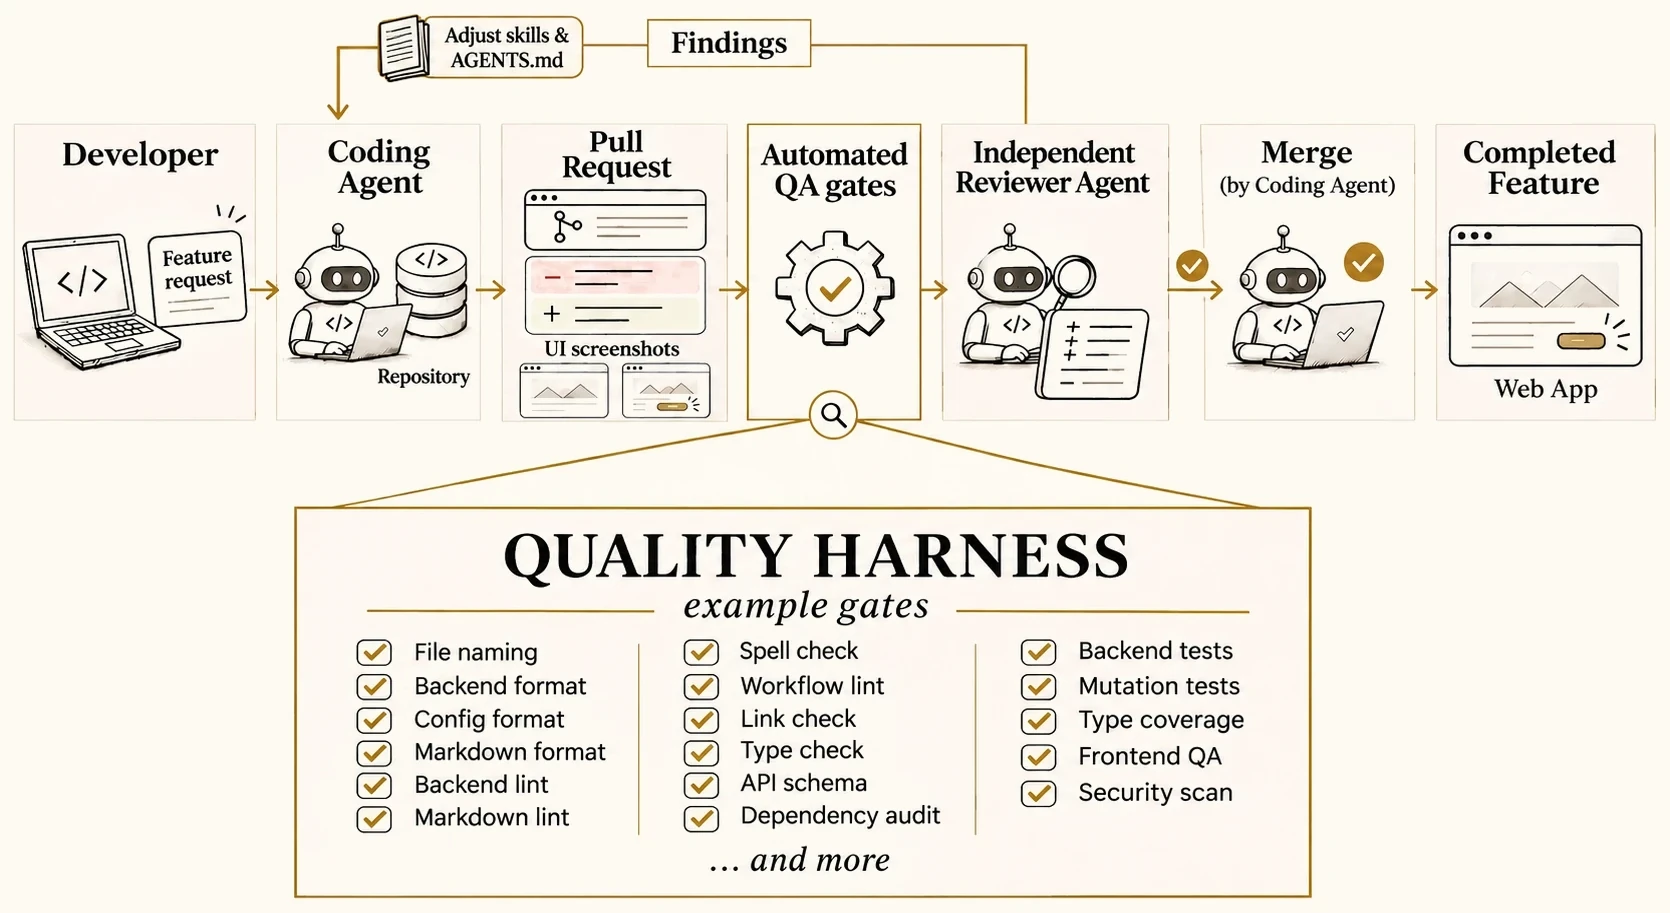
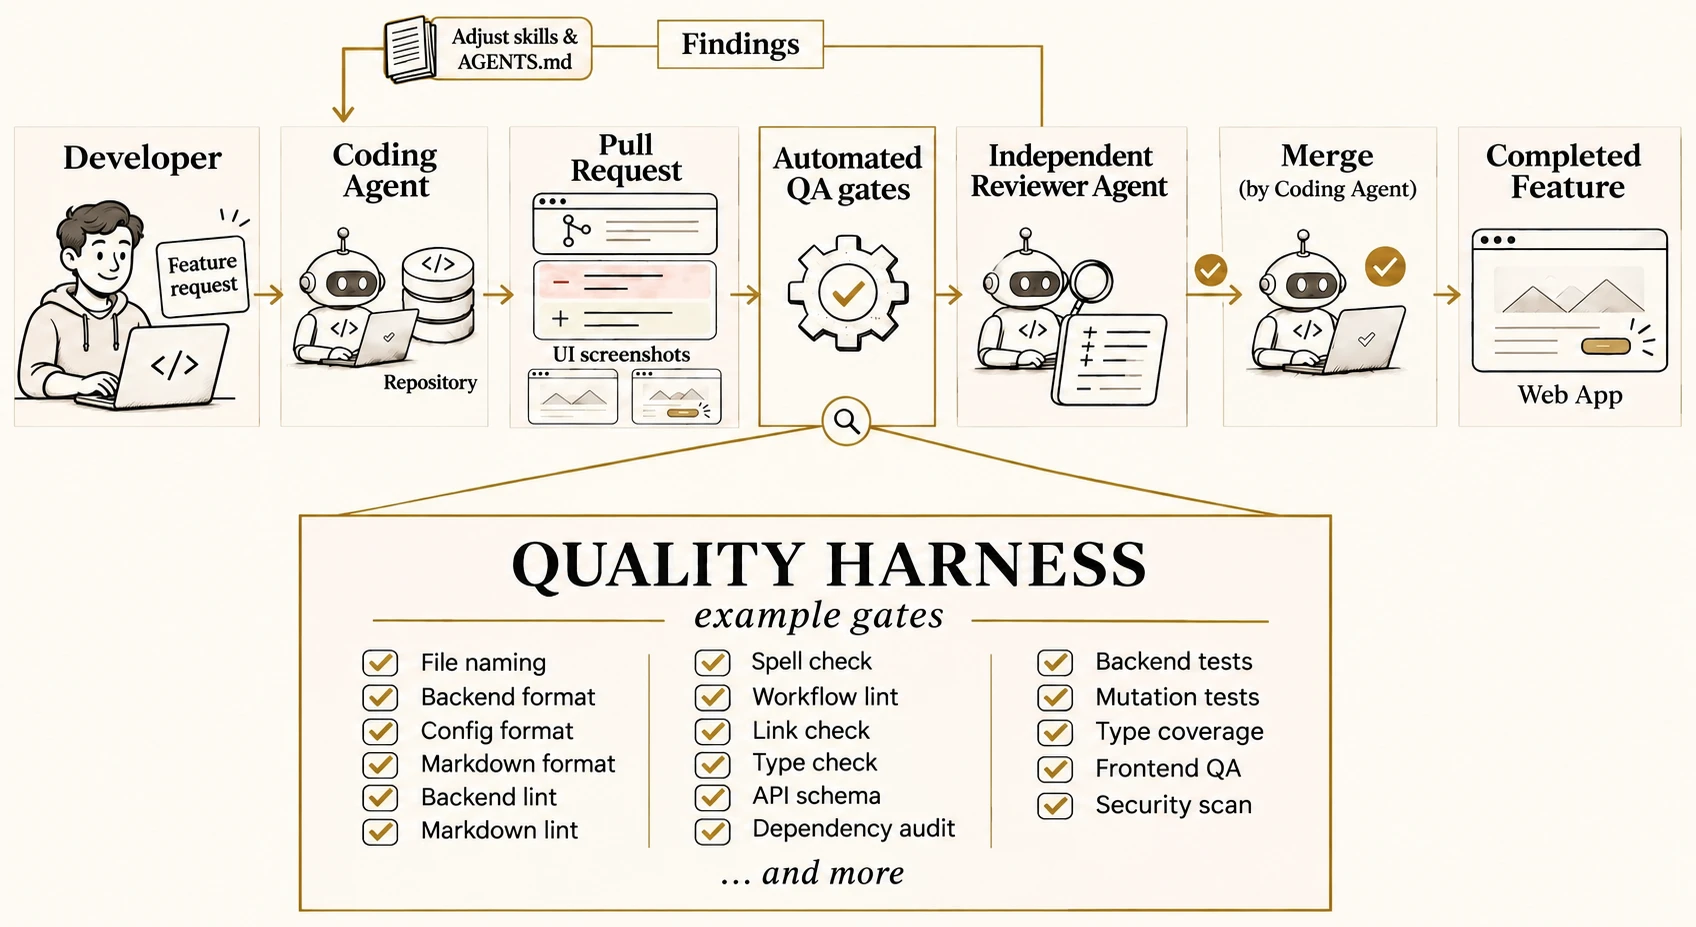
fix(illustration): show developer using laptop (#66)
## Summary

- Add a seated human developer using a laptop to the Developer panel.
- Update the slide alternative text and record the image edit prompt.

## Validation

- `just render`
- `git diff --check`

diff --git a/media/README.md b/media/README.md
@@ -196,6 +196,11 @@ format, Backend lint, Markdown lint, Spell check, Workflow lint, Link check,
 Type check, API schema, Dependency audit, Backend tests, Mutation tests, Type
 coverage, Frontend QA, and Security scan.
 
+Final built-in image edit: in the leftmost panel headed “Developer”, add a
+clearly visible human seated behind and using the existing laptop, with their
+face and upper body visible. Change only this panel; preserve the seven-panel
+workflow, labels, arrows, checklist, style, and all other artwork.
+
 ## context-rot.webp
 
 The first session-hygiene slide illustrates how stale assumptions, repeated
